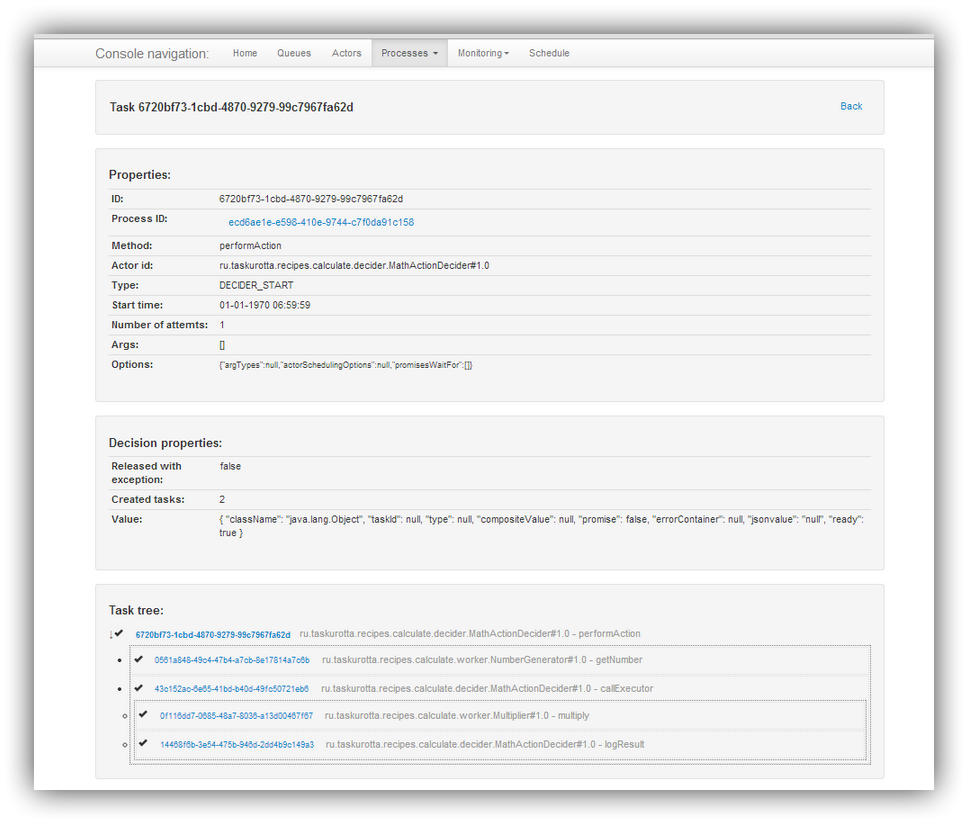
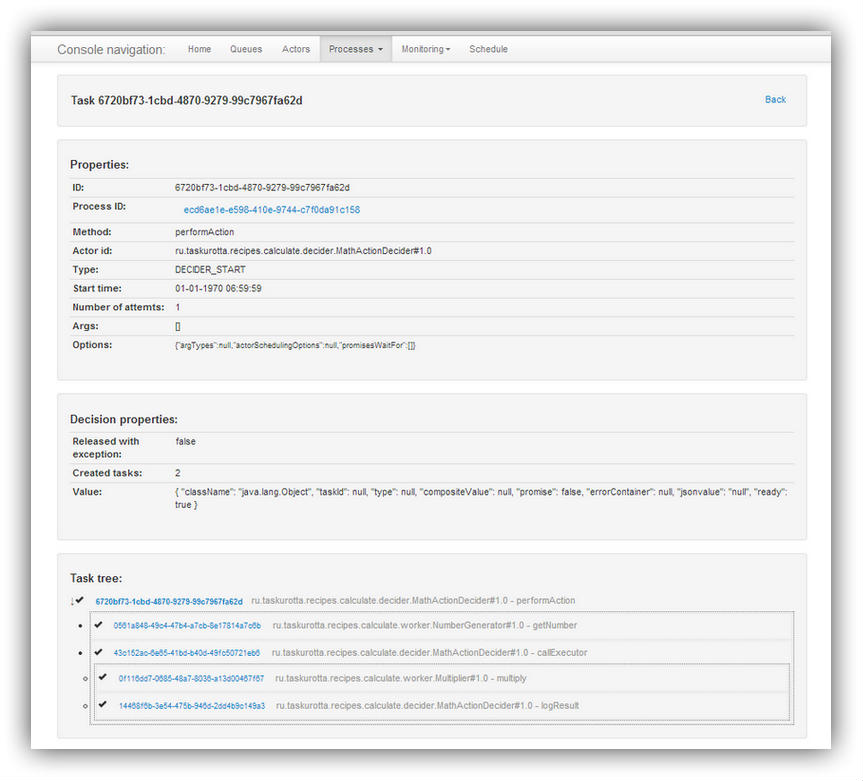
Web console docs updates

diff --git a/_includes/md/doc.md b/_includes/md/doc.md
@@ -278,13 +278,18 @@ them is described below in details.
   of a task or a process. Example view for a task is shown on the picture, it contains all the task properties and return values along with the familiar
   tree view starting with the current task this time. If the task is a simple worker, only itself task would appear there.
 
-  <img src="../../doc/img/console/task_card.jpg" width="968px" height="824px" />
+  <img src="../../doc/img/console/task_card.jpg" width="863px" height="781px" />
 
 #### Processes search and Tasks search
+  These two views make it possible to find tasks/processes by UUID or process custom ID specified by decider implementation. By submitting the search form data
+  one can obtain list of processes or tasks satisfying search conditions. Every form input is a "starts with" condition, if more than one input is set, the results
+  would be evaluated via AND conditions for all inputs. Example with results is presented below.
 
+  <img src="../../doc/img/console/search_result.jpg" width="853px" height="666px" />
 
 #### Create process view
-
+  This view is designed for development/testing usage only. It enables you to create new processes by passing decider's actor ID, execute method name and valid
+  JSONs for task arguments to taskurotta server. Arguments should correspond to the array of JSON-converted ArgContainer objects.
 
 #### Broken processes views
 
